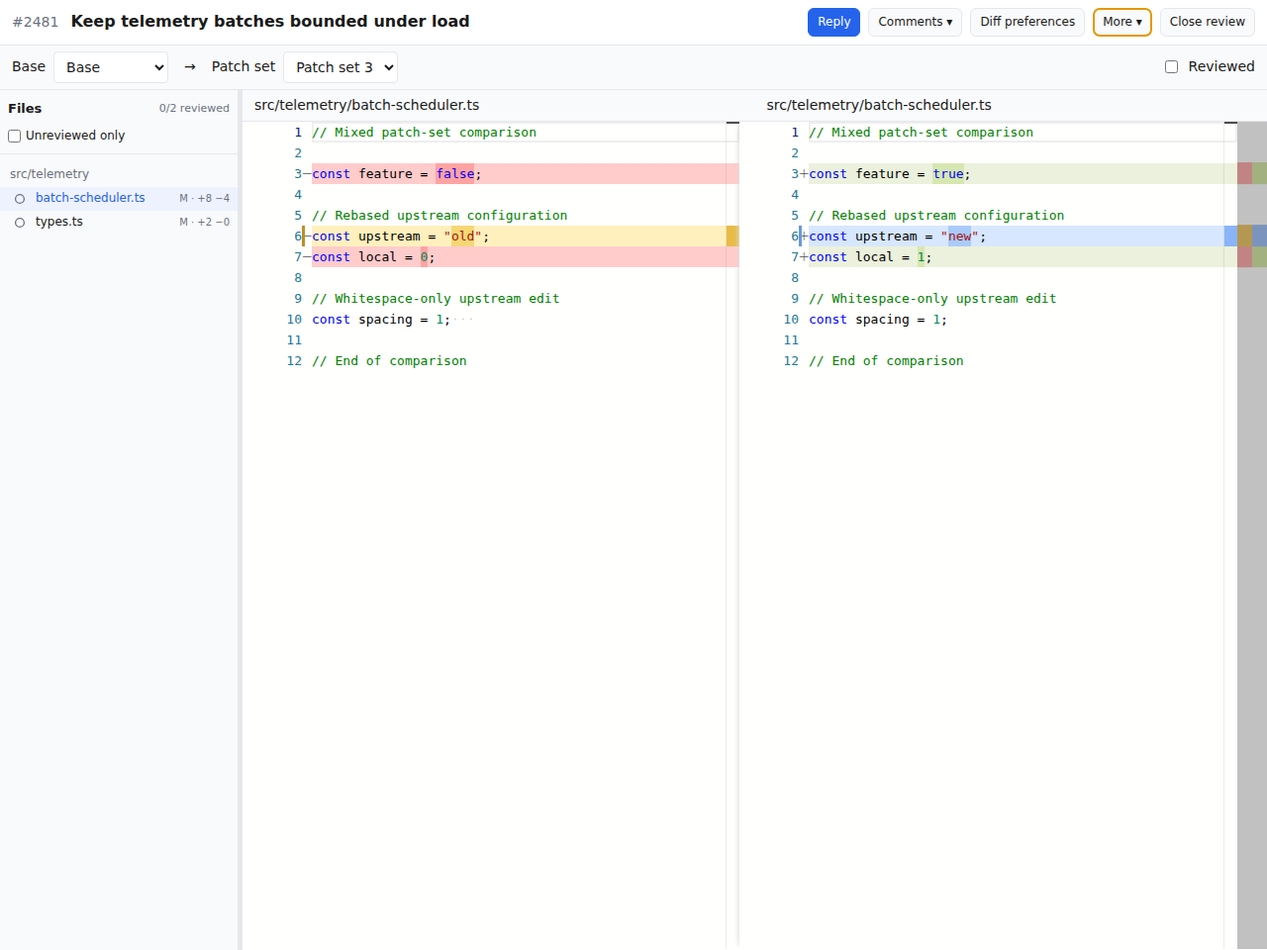
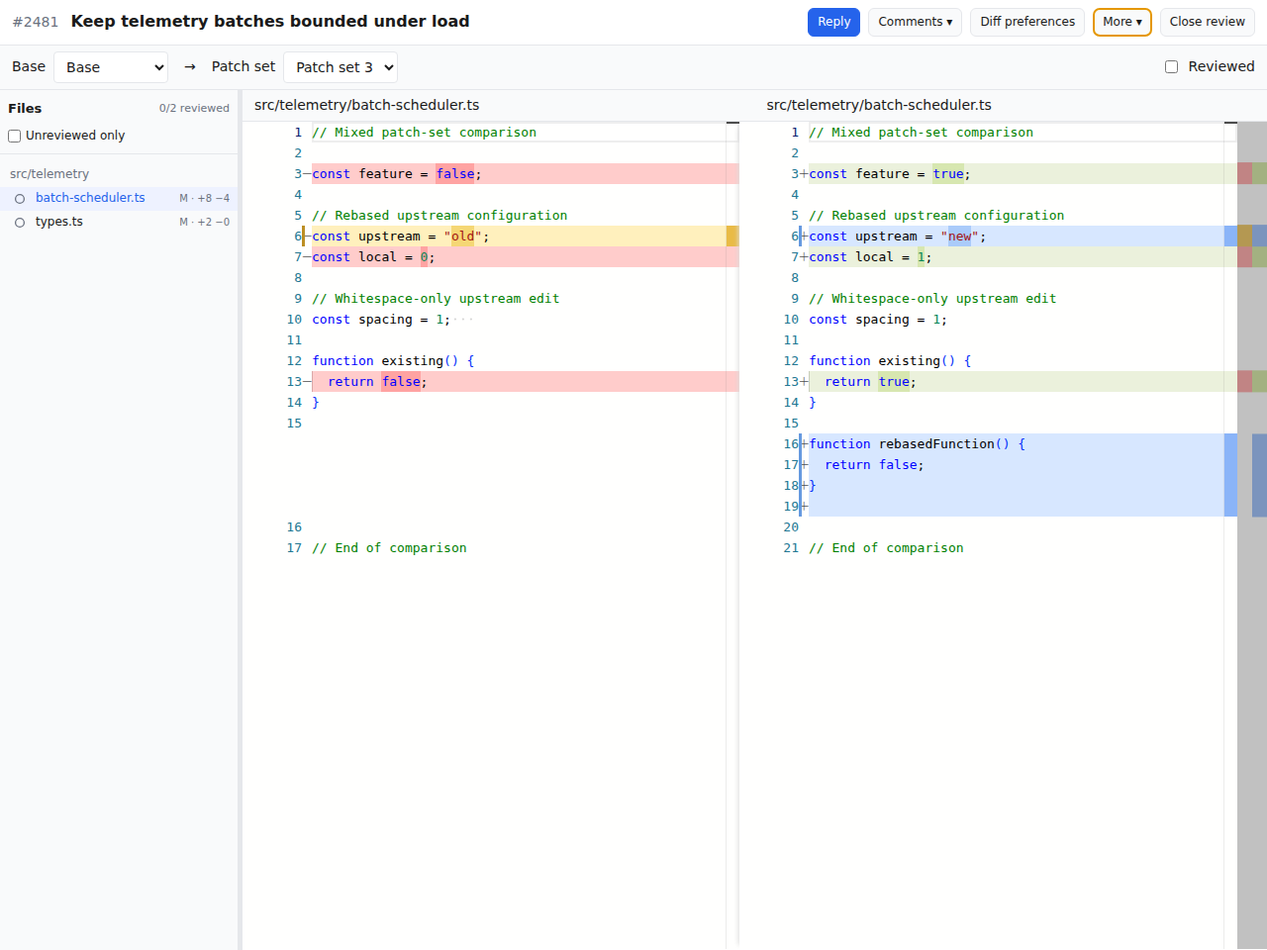
Preserve Gerrit diff alignment and improve review editors

Changed region(s): [[0.625, 0.375, 1.0, 0.5938], [0.2188, 0.375, 0.5938, 0.4375], [0.25, 0.5625, 0.375, 0.5938]]

diff --git a/src/renderer/src/components/ReviewEditor.tsx b/src/renderer/src/components/ReviewEditor.tsx
@@ -1,4 +1,4 @@
-import { useEffect, useMemo, useImperativeHandle, useRef, useState, type Ref } from 'react'
+import { useEffect, useLayoutEffect, useMemo, useImperativeHandle, useRef, useState, type Ref } from 'react'
 import * as monaco from 'monaco-editor/editor/editor.api'
 import EditorWorker from 'monaco-editor/editor/editor.worker?worker'
 import 'monaco-editor/editor/browser/coreCommands'
@@ -71,7 +71,7 @@ export interface LoadedReviewFile extends ReviewContents {
 export interface ReviewEditorHandle { outline(): void; blame(): void; highlightComment(location: EditorCommentLocation | null): void; createInlineHost(pane: 'original' | 'modified', line: number): InlineCommentHost | null; navigate(shortcut: ReviewShortcut): void; addComment(): void; find(): void; goToLine(): void; revealComment(pane: 'original' | 'modified', line: number): void }
 export interface EditorCommentLocation { pane: 'original' | 'modified'; line: number; range?: CommentRange; existing?: boolean }
 
-export default function ReviewEditor({ file, link, preferences, onReady, onComment, markers, ref }: { link: ChangeLink; markers: { range?: CommentRange; pane: 'original' | 'modified'; line: number; draft: boolean; unresolved: boolean }[]; onComment: (location: EditorCommentLocation) => void; file: LoadedReviewFile; preferences: ReviewPreferences; onReady: () => void; ref?: Ref<ReviewEditorHandle> }) {
+export default function ReviewEditor({ file, link, preferences, commentsVisible, onReady, onComment, markers, ref }: { link: ChangeLink; commentsVisible: boolean; markers: { range?: CommentRange; pane: 'original' | 'modified'; line: number; draft: boolean; unresolved: boolean }[]; onComment: (location: EditorCommentLocation) => void; file: LoadedReviewFile; preferences: ReviewPreferences; onReady: () => void; ref?: Ref<ReviewEditorHandle> }) {
   const [tool, setTool] = useState<'outline' | 'blame' | null>(null)
   const [showBlame, setShowBlame] = useState(false)
   const [blames, setBlames] = useState<ReviewBlame[] | null>(null)
@@ -93,6 +93,42 @@ export default function ReviewEditor({ file, link, preferences, onReady, onComme
   const sideBySide = useRef(true)
   const [unified, setUnified] = useState(false)
   const lastFocus = useRef<'original' | 'modified'>('modified')
+  const commentScroll = useRef<{ code: monaco.editor.IStandaloneCodeEditor; position: monaco.IPosition; offset: number; frames: number } | null>(null)
+  const commentScrollFrame = useRef(0)
+  function restoreCommentScroll() {
+    const anchor = commentScroll.current
+    if (!anchor) return
+    anchor.frames = 3
+    const restore = () => anchor.code.setScrollTop(anchor.code.getTopForPosition(anchor.position.lineNumber, anchor.position.column) - anchor.offset)
+    restore()
+    if (commentScrollFrame.current) return
+    function settle() {
+      commentScrollFrame.current = 0
+      const current = commentScroll.current
+      if (!current) return
+      current.code.setScrollTop(current.code.getTopForPosition(current.position.lineNumber, current.position.column) - current.offset)
+      if (--current.frames > 0) commentScrollFrame.current = requestAnimationFrame(settle)
+      else commentScroll.current = null
+    }
+    commentScrollFrame.current = requestAnimationFrame(settle)
+  }
+  useLayoutEffect(() => {
+    const diff = editor.current
+    if (!diff) return
+    const code = lastFocus.current === 'original' && sideBySide.current ? diff.getOriginalEditor() : diff.getModifiedEditor()
+    let position: monaco.IPosition | null = code.getPosition()
+    if (!position) return
+    let offset = code.getTopForPosition(position.lineNumber, position.column) - code.getScrollTop()
+    // If the cursor was already offscreen, preserve the visible code instead.
+    if (offset < 0 || offset >= code.getLayoutInfo().height) {
+      const range = code.getVisibleRanges()[0]
+      if (!range) return
+      position = { lineNumber: range.startLineNumber, column: range.startColumn }
+      offset = code.getTopForPosition(position.lineNumber, position.column) - code.getScrollTop()
+    }
+    commentScroll.current = { code, position, offset, frames: 3 }
+    restoreCommentScroll()
+  }, [commentsVisible])
   const [diffMs, setDiffMs] = useState<number | null>(null)
   useEffect(() => {
     const start = performance.now()
@@ -103,7 +139,7 @@ export default function ReviewEditor({ file, link, preferences, onReady, onComme
     const setTheme = () => monaco.editor.setTheme(appearance.matches ? 'vs-dark' : 'vs')
     setTheme()
     appearance.addEventListener('change', setTheme)
-    configureReviewDiff(original, preferences.ignoreWhitespace)
+    configureReviewDiff(original, preferences.ignoreWhitespace, file.diffBlocks)
     const diff = monaco.editor.createDiffEditor(container.current!, {
       automaticLayout: true,
       readOnly: true,
@@ -136,6 +172,7 @@ export default function ReviewEditor({ file, link, preferences, onReady, onComme
     editor.current = diff
     const originalFocus = diff.getOriginalEditor().onDidFocusEditorText(() => { lastFocus.current = 'original' })
     const modifiedFocus = diff.getModifiedEditor().onDidFocusEditorText(() => { lastFocus.current = 'modified' })
+    const commentZoneChanges = [diff.getOriginalEditor(), diff.getModifiedEditor()].map(code => code.onDidChangeViewZones(restoreCommentScroll))
     const commentActions = [diff.getOriginalEditor(), diff.getModifiedEditor()].flatMap((code, index) => [
       code.addAction({ id: 'review.addComment', label: 'Add review comment', contextMenuGroupId: 'navigation', contextMenuOrder: 0, run: () => {
         lastFocus.current = index === 0 ? 'original' : 'modified'
@@ -177,6 +214,10 @@ export default function ReviewEditor({ file, link, preferences, onReady, onComme
       highlights.current.forEach(collection => collection.clear()); highlights.current = []
       originalFocus.dispose()
       modifiedFocus.dispose()
+      commentZoneChanges.forEach(subscription => subscription.dispose())
+      cancelAnimationFrame(commentScrollFrame.current)
+      commentScrollFrame.current = 0
+      commentScroll.current = null
       appearance.removeEventListener('change', setTheme)
       editor.current = null
       diff.dispose()
@@ -188,7 +229,7 @@ export default function ReviewEditor({ file, link, preferences, onReady, onComme
   useEffect(() => {
     const diff = editor.current
     if (!diff) return
-    configureReviewDiff(diff.getOriginalEditor().getModel()!, preferences.ignoreWhitespace)
+    configureReviewDiff(diff.getOriginalEditor().getModel()!, preferences.ignoreWhitespace, file.diffBlocks)
     diff.updateOptions({
       fontSize: preferences.fontSize, lineHeight: Math.round(preferences.fontSize * 1.65),
       wordWrap: 'wordWrapColumn', wordWrapColumn: preferences.diffWidth,

diff --git a/src/renderer/src/review-diff.ts b/src/renderer/src/review-diff.ts
@@ -1,8 +1,9 @@
 import { DefaultLinesDiffComputer } from 'monaco-editor/editor/common/diff/defaultLinesDiffComputer/defaultLinesDiffComputer'
 import { normalizeReviewLine, reviewSourceColumn, type ReviewWhitespace } from './review-preferences.ts'
 import type { IRange } from 'monaco-editor/editor/editor.api'
+import type { ReviewDiffBlock } from './review.ts'
 
-export interface ReviewDiffRequest { id: number; original: string[]; modified: string[]; whitespace: ReviewWhitespace; timeout: number }
+export interface ReviewDiffRequest { id: number; original: string[]; modified: string[]; whitespace: ReviewWhitespace; timeout: number; blocks?: ReviewDiffBlock[] }
 export interface ReviewDiffResult {
   id: number
   identical: boolean
@@ -10,6 +11,7 @@ export interface ReviewDiffResult {
   changes: { original: [number, number]; modified: [number, number]; innerChanges: { original: IRange; modified: IRange }[] }[]
 }
 export function computeReviewDiff(request: ReviewDiffRequest): ReviewDiffResult {
+  if (request.blocks) return computeGerritDiff(request)
   const { original, modified, whitespace } = request
   const a = original.map((line) => normalizeReviewLine(line, whitespace))
   const b = modified.map((line) => normalizeReviewLine(line, whitespace))
@@ -29,4 +31,47 @@ export function computeReviewDiff(request: ReviewDiffRequest): ReviewDiffResult 
       innerChanges: (c.innerChanges ?? []).map((r) => ({ original: sourceRange(r.originalRange, original), modified: sourceRange(r.modifiedRange, modified) })),
     })),
   }
+}
+
+/** Gerrit anchors unchanged lines. Never match repeated code across those anchors. */
+function computeGerritDiff(request: ReviewDiffRequest): ReviewDiffResult {
+  const changes: ReviewDiffResult['changes'] = []
+  const deadline = request.timeout > 0 ? Date.now() + request.timeout : Infinity
+  let quitEarly = false
+  function append(change: ReviewDiffResult['changes'][number]) {
+    const previous = changes.at(-1)
+    // Monaco requires an unchanged line between hunks. Joining adjacent server
+    // chunks keeps their alignment and separate rebase metadata intact.
+    if (previous && previous.original[1] === change.original[0] && previous.modified[1] === change.modified[0]) {
+      previous.original[1] = change.original[1]
+      previous.modified[1] = change.modified[1]
+      for (const inner of change.innerChanges) previous.innerChanges.push(inner)
+    } else changes.push(change)
+  }
+  for (const block of request.blocks!) {
+    const aOffset = block.original[0] - 1
+    const bOffset = block.modified[0] - 1
+    const original = request.original.slice(aOffset, block.original[1] - 1)
+    const modified = request.modified.slice(bOffset, block.modified[1] - 1)
+    const remaining = deadline - Date.now()
+    if (!original.length || !modified.length || remaining <= 0) {
+      quitEarly ||= remaining <= 0
+      append({ original: [...block.original], modified: [...block.modified], innerChanges: [] })
+      continue
+    }
+    const local = computeReviewDiff({ ...request, blocks: undefined, original, modified, timeout: Number.isFinite(remaining) ? remaining : 0 })
+    quitEarly ||= local.quitEarly
+    const offset = (range: IRange, lines: number): IRange => ({ ...range, startLineNumber: range.startLineNumber + lines, endLineNumber: range.endLineNumber + lines })
+    const innerChanges = (change: ReviewDiffResult['changes'][number]) => change.innerChanges.map(r => ({ original: offset(r.original, aOffset), modified: offset(r.modified, bOffset) }))
+    if (request.whitespace === 'IGNORE_NONE') {
+      append({ original: [...block.original], modified: [...block.modified], innerChanges: local.changes.flatMap(innerChanges) })
+    } else {
+      for (const change of local.changes) append({
+        original: [change.original[0] + aOffset, change.original[1] + aOffset],
+        modified: [change.modified[0] + bOffset, change.modified[1] + bOffset],
+        innerChanges: innerChanges(change),
+      })
+    }
+  }
+  return { id: request.id, identical: request.original.length === request.modified.length && request.original.every((line, i) => line === request.modified[i]), quitEarly, changes }
 }

diff --git a/src/renderer/src/review-diff-provider.ts b/src/renderer/src/review-diff-provider.ts
@@ -4,11 +4,13 @@ import { LineRange } from 'monaco-editor/editor/common/core/ranges/lineRange'
 import DiffWorker from './review-diff.worker.ts?worker'
 import type { ReviewDiffResult } from './review-diff.ts'
 import type { ReviewWhitespace } from './review-preferences.ts'
+import type { ReviewDiffBlock } from './review.ts'
 
 /** Bundle computation locally and retain the original models for display and search. */
 export function reviewDiffProvider() {
   const worker = new DiffWorker()
   let whitespace: ReviewWhitespace = 'IGNORE_NONE'
+  let blocks: ReviewDiffBlock[] | undefined
   let nextId = 0
   const listeners = new Set<() => void>()
   const pending = new Map<number, { resolve: (result: ReturnType<typeof restore>) => void; reject: (error: Error) => void }>()
@@ -37,12 +39,13 @@ export function reviewDiffProvider() {
       const id = ++nextId
       return new Promise<ReturnType<typeof restore>>((resolve, reject) => {
         pending.set(id, { resolve, reject })
-        worker.postMessage({ id, original: original.getLinesContent(), modified: modified.getLinesContent(), whitespace, timeout: options.maxComputationTimeMs })
+        worker.postMessage({ id, original: original.getLinesContent(), modified: modified.getLinesContent(), whitespace, blocks, timeout: options.maxComputationTimeMs })
       })
     },
-    setWhitespace(mode: ReviewWhitespace) {
-      if (whitespace === mode) return
+    configure(mode: ReviewWhitespace, diffBlocks?: ReviewDiffBlock[]) {
+      if (whitespace === mode && blocks === diffBlocks) return
       whitespace = mode
+      blocks = diffBlocks
       // Monaco may resubscribe during notification. Iterate a snapshot.
       for (const listener of [...listeners]) listener()
     },
@@ -57,11 +60,11 @@ export function reviewDiffProvider() {
 
 // Model identity isolates providers across files and comparisons. Monaco's public
 // diffAlgorithm option only supports built-ins, so use its provider factory.
-const modes = new WeakMap<editor.ITextModel, ReviewWhitespace>()
+const modes = new WeakMap<editor.ITextModel, { mode: ReviewWhitespace; blocks?: ReviewDiffBlock[] }>()
 const providers = new WeakMap<editor.ITextModel, ReturnType<typeof reviewDiffProvider>>()
-export function configureReviewDiff(model: editor.ITextModel, mode: ReviewWhitespace) {
-  modes.set(model, mode)
-  providers.get(model)?.setWhitespace(mode)
+export function configureReviewDiff(model: editor.ITextModel, mode: ReviewWhitespace, blocks?: ReviewDiffBlock[]) {
+  modes.set(model, { mode, blocks })
+  providers.get(model)?.configure(mode, blocks)
 }
 export const reviewDiffFactory = {
   createDiffProvider() {
@@ -72,7 +75,8 @@ export const reviewDiffFactory = {
       if (!registered) {
         registered = true
         providers.set(original, provider)
-        provider.setWhitespace(modes.get(original) ?? 'IGNORE_NONE')
+        const config = modes.get(original)
+        provider.configure(config?.mode ?? 'IGNORE_NONE', config?.blocks)
         original.onWillDispose(() => { provider.dispose(); providers.delete(original) })
       }
       return compute(original, modified, options)

diff --git a/src/renderer/src/review-diff.test.ts b/src/renderer/src/review-diff.test.ts
@@ -2,7 +2,47 @@ import { test } from 'node:test'
 import assert from 'node:assert/strict'
 import { computeReviewDiff } from './review-diff.ts'
 import type { ReviewWhitespace } from './review-preferences.ts'
+import { diffContents } from './review.ts'
 const compute = (original: string[], modified: string[], whitespace: ReviewWhitespace) => computeReviewDiff({ id: 1, original, modified, whitespace, timeout: 10000 })
+
+test('Gerrit anchors keep a rebased function intact when it repeats the old return and brace', () => {
+  const file = diffContents({ content: [
+    { ab: ['function existing() {'] },
+    { a: ['  return false;'], b: ['  return true;'] },
+    { ab: ['}', ''] },
+    { b: ['function rebasedFunction() {', '  return false;', '}', ''], due_to_rebase: true },
+  ] })
+  const original = file.original.split('\n')
+  const modified = file.modified.split('\n')
+  // Reproduce the old whole-file algorithm stealing the existing function's tail.
+  assert.deepEqual(compute(original, modified, 'IGNORE_NONE').changes.map(c => c.modified), [[2, 6]])
+  for (const whitespace of ['IGNORE_NONE', 'IGNORE_TRAILING', 'IGNORE_LEADING_AND_TRAILING', 'IGNORE_ALL'] as const) {
+    const result = computeReviewDiff({ id: 1, original, modified, whitespace, timeout: 10000, blocks: file.diffBlocks })
+    assert.deepEqual(result.changes.map(c => [c.original, c.modified]), [[[2, 3], [2, 3]], [[5, 5], [5, 9]]])
+    assert.deepEqual(file.rebaseChanges, [{ pane: 'modified', start: 5, end: 8 }])
+    const reversed = computeReviewDiff({ id: 2, original: modified, modified: original, whitespace, timeout: 10000,
+      blocks: file.diffBlocks!.map(block => ({ original: block.modified, modified: block.original })),
+    })
+    assert.deepEqual(reversed.changes.map(c => [c.original, c.modified]), [[[2, 3], [2, 3]], [[5, 9], [5, 5]]])
+  }
+})
+
+test('server blocks still filter whitespace, retain source columns, and merge adjacent hunks', () => {
+  const file = diffContents({ content: [
+    { ab: ['context'] },
+    { a: ['same   '], b: ['same'], due_to_rebase: true },
+    { a: ['\treturn oldName;'], b: ['  return newName;'] },
+    { b: ['added'], due_to_rebase: true },
+    { ab: ['tail'] },
+  ] })
+  const run = (whitespace: ReviewWhitespace) => computeReviewDiff({ id: 1, original: file.original.split('\n'), modified: file.modified.split('\n'), whitespace, timeout: 10000, blocks: file.diffBlocks })
+  assert.deepEqual(run('IGNORE_NONE').changes.map(c => [c.original, c.modified]), [[[2, 4], [2, 5]]])
+  const filtered = run('IGNORE_ALL')
+  assert.deepEqual(filtered.changes.map(c => [c.original, c.modified]), [[[3, 4], [3, 5]]])
+  assert.equal(filtered.changes[0]!.innerChanges[0]!.original.startLineNumber, 3)
+  assert.ok(filtered.changes[0]!.innerChanges[0]!.original.startColumn > 1)
+  assert.ok(filtered.changes[0]!.innerChanges[0]!.modified.startColumn > 2)
+})
 
 test('all four whitespace modes preserve Gerrit comparison semantics', () => {
   assert.equal(compute(['foo  '], ['foo'], 'IGNORE_NONE').changes.length, 1)

diff --git a/src/renderer/src/review.ts b/src/renderer/src/review.ts
@@ -6,7 +6,11 @@ export interface ReviewContents {
   originalLines: number
   modifiedLines: number
   rebaseChanges?: RebaseRange[]
+  /** Gerrit's authoritative changed blocks, with one-based exclusive ends. */
+  diffBlocks?: ReviewDiffBlock[]
 }
+
+export interface ReviewDiffBlock { original: [number, number]; modified: [number, number] }
 
 export interface RebaseRange { pane: 'original' | 'modified'; start: number; end: number }
 
@@ -15,8 +19,13 @@ export function diffContents(diff: ReviewDiff): ReviewContents {
   const original: string[] = []
   const modified: string[] = []
   const rebaseChanges: RebaseRange[] = []
+  const diffBlocks: ReviewDiffBlock[] = []
   for (const chunk of diff.content) {
     if (chunk.skip) throw new Error('The diff is missing file content')
+    if (!chunk.ab && (chunk.a?.length || chunk.b?.length)) diffBlocks.push({
+      original: [original.length + 1, original.length + 1 + (chunk.a?.length ?? 0)],
+      modified: [modified.length + 1, modified.length + 1 + (chunk.b?.length ?? 0)],
+    })
     if (chunk.due_to_rebase && !chunk.ab) {
       if (chunk.a?.length) rebaseChanges.push({ pane: 'original', start: original.length + 1, end: original.length + chunk.a.length })
       if (chunk.b?.length) rebaseChanges.push({ pane: 'modified', start: modified.length + 1, end: modified.length + chunk.b.length })
@@ -26,7 +35,7 @@ export function diffContents(diff: ReviewDiff): ReviewContents {
     for (const line of chunk.ab ?? chunk.b ?? []) modified.push(line)
   }
   return { original: original.join('\n'), modified: modified.join('\n'), originalLines: original.length, modifiedLines: modified.length,
-    ...(rebaseChanges.length ? { rebaseChanges } : {}) }
+    diffBlocks, ...(rebaseChanges.length ? { rebaseChanges } : {}) }
 }
 
 /** Only tint edits still visible under the selected whitespace policy. */

diff --git a/src/main/editor-context-menu.test.ts b/src/main/editor-context-menu.test.ts
@@ -1,0 +1,31 @@
+import { test } from 'node:test'
+import assert from 'node:assert/strict'
+import { editorContextMenu } from './editor-context-menu.ts'
+
+const params = {
+  isEditable: true, misspelledWord: 'mispelled', dictionarySuggestions: ['misspelled', 'misspelt'],
+  editFlags: { canUndo: true, canRedo: false, canCut: true, canCopy: true, canPaste: true, canDelete: true, canSelectAll: true, canEditRichly: false },
+}
+
+test('spelling actions replace the clicked word and update the dictionary', () => {
+  const replaced: string[] = []
+  const added: string[] = []
+  const items = editorContextMenu(params, { replace: word => replaced.push(word), addToDictionary: word => added.push(word) })
+  Reflect.apply(items.find(item => item.label === 'misspelt')!.click!, undefined, [])
+  Reflect.apply(items.find(item => item.label === 'Add to dictionary')!.click!, undefined, [])
+  assert.deepEqual(replaced, ['misspelt'])
+  assert.deepEqual(added, ['mispelled'])
+  assert.equal(items.find(item => item.role === 'undo')!.enabled, true)
+  assert.equal(items.find(item => item.role === 'redo')!.enabled, false)
+})
+
+test('ordinary text fields keep edit actions; unknown words allow dictionary additions', () => {
+  const actions = { replace() {}, addToDictionary() {} }
+  const ordinary = editorContextMenu({ ...params, misspelledWord: '', dictionarySuggestions: [] }, actions)
+  assert.ok(ordinary.some(item => item.role === 'paste'))
+  assert.ok(ordinary.every(item => !item.label))
+  const unknown = editorContextMenu({ ...params, dictionarySuggestions: [] }, actions)
+  assert.equal(unknown.find(item => item.label === 'No spelling suggestions')!.enabled, false)
+  assert.ok(unknown.some(item => item.label === 'Add to dictionary'))
+  assert.deepEqual(editorContextMenu({ ...params, isEditable: false }, actions), [])
+})

diff --git a/src/renderer/src/components/LocalReview.tsx b/src/renderer/src/components/LocalReview.tsx
@@ -301,7 +301,7 @@ export function LocalReview({ link: initialLink, subject, onClose, onPublished }
           }
         }} />
           {error ? <div className="review-message" role="alert">{error}<p><button className="btn" onClick={() => { fileLists.current.delete(comparison); setRetry((v) => v + 1) }}>Retry</button></p></div>
-            : loaded && loaded.path === path && loaded.comparison === comparison ? <Suspense fallback={<p className="review-message" role="status">Opening review editor…</p>}><ReviewEditor ref={editor} key={fileKey} file={loaded} link={link} preferences={preferences} markers={markers} onComment={position => { const anchor = commentAnchor(link, path, loaded.nameA, position.pane, position.line, position.range); if (position.existing) comments.current?.openAt(anchor); else comments.current?.compose(anchor) }} onReady={() => {
+            : loaded && loaded.path === path && loaded.comparison === comparison ? <Suspense fallback={<p className="review-message" role="status">Opening review editor…</p>}><ReviewEditor ref={editor} key={fileKey} file={loaded} link={link} preferences={preferences} commentsVisible={commentsOpen} markers={markers} onComment={position => { const anchor = commentAnchor(link, path, loaded.nameA, position.pane, position.line, position.range); if (position.existing) comments.current?.openAt(anchor); else comments.current?.compose(anchor) }} onReady={() => {
               setReadyFile(fileKey); setEditorGeneration(generation => generation + 1)
               const comment = pendingComment.current
               if (comment && comment.patch_set === link.patchSet && comment.path === path) { editor.current?.revealComment(comment.side === 'PARENT' ? 'original' : 'modified', comment.line ?? comment.range?.end_line ?? 1); pendingComment.current = null }

diff --git a/src/main/editor-context-menu.ts b/src/main/editor-context-menu.ts
@@ -1,0 +1,21 @@
+import type { ContextMenuParams, MenuItemConstructorOptions } from 'electron'
+
+type EditorContext = Pick<ContextMenuParams, 'isEditable' | 'misspelledWord' | 'dictionarySuggestions' | 'editFlags'>
+
+/** Use Chromium's spelling results and editing commands for every text field. */
+export function editorContextMenu(params: EditorContext, actions: { replace(word: string): void; addToDictionary(word: string): void }): MenuItemConstructorOptions[] {
+  if (!params.isEditable) return []
+  const items: MenuItemConstructorOptions[] = []
+  if (params.misspelledWord) {
+    for (const word of params.dictionarySuggestions) items.push({ label: word, click: () => actions.replace(word) })
+    if (!params.dictionarySuggestions.length) items.push({ label: 'No spelling suggestions', enabled: false })
+    items.push({ label: 'Add to dictionary', click: () => actions.addToDictionary(params.misspelledWord) }, { type: 'separator' })
+  }
+  const flags = params.editFlags
+  items.push(
+    { role: 'undo', enabled: flags.canUndo }, { role: 'redo', enabled: flags.canRedo }, { type: 'separator' },
+    { role: 'cut', enabled: flags.canCut }, { role: 'copy', enabled: flags.canCopy }, { role: 'paste', enabled: flags.canPaste },
+    { type: 'separator' }, { role: 'selectAll', enabled: flags.canSelectAll },
+  )
+  return items
+}

diff --git a/src/main/index.ts b/src/main/index.ts
@@ -1,4 +1,4 @@
-import { app, BrowserWindow, ipcMain, net, shell } from 'electron'
+import { app, BrowserWindow, ipcMain, Menu, net, shell } from 'electron'
 import path from 'node:path'
 import { promises as fs } from 'node:fs'
 import * as settings from './settings.ts'
@@ -9,6 +9,17 @@ import { RELEASES_URL, updateAction } from '../shared/update.ts'
 import { slackDeepLink } from '../shared/model.ts'
 import type { BadgePayload, ChangeAction, ChangeLink, SettingsInput, TabId, UiState, WindowBounds } from '../shared/types.ts'
 import appIconPath from '../../resources/icon.png?asset'
+import { editorContextMenu } from './editor-context-menu.ts'
+
+app.on('web-contents-created', (_event, contents) => {
+  contents.on('context-menu', (_event, params) => {
+    const template = editorContextMenu(params, {
+      replace: word => contents.replaceMisspelling(word),
+      addToDictionary: word => { contents.session.addWordToSpellCheckerDictionary(word) },
+    })
+    if (template.length) Menu.buildFromTemplate(template).popup({ window: BrowserWindow.fromWebContents(contents) ?? undefined })
+  })
+})
 
 const COMPACT_DEFAULT: WindowBounds = { x: 0, y: 0, width: 460, height: 720 }
 const NORMAL_DEFAULT: WindowBounds = { x: 0, y: 0, width: 1200, height: 800 }

diff --git a/src/renderer/src/review.test.ts b/src/renderer/src/review.test.ts
@@ -9,7 +9,7 @@ test('whole-file models preserve context, whitespace, blank lines and both sides
   assert.equal(contents.originalLines, 6)
   assert.equal(contents.modifiedLines, 6)
   assert.throws(() => diffContents({ content: [{ skip: 10 }] }), /missing/)
-  assert.deepEqual(diffContents({ content: [] }), { original: '', modified: '', originalLines: 0, modifiedLines: 0 })
+  assert.deepEqual(diffContents({ content: [] }), { original: '', modified: '', originalLines: 0, modifiedLines: 0, diffBlocks: [] })
   assert.equal(diffContents({ content: [{ b: ['added'] }] }).original, '')
   assert.equal(diffContents({ content: [{ a: ['deleted'] }] }).modified, '')
 })
